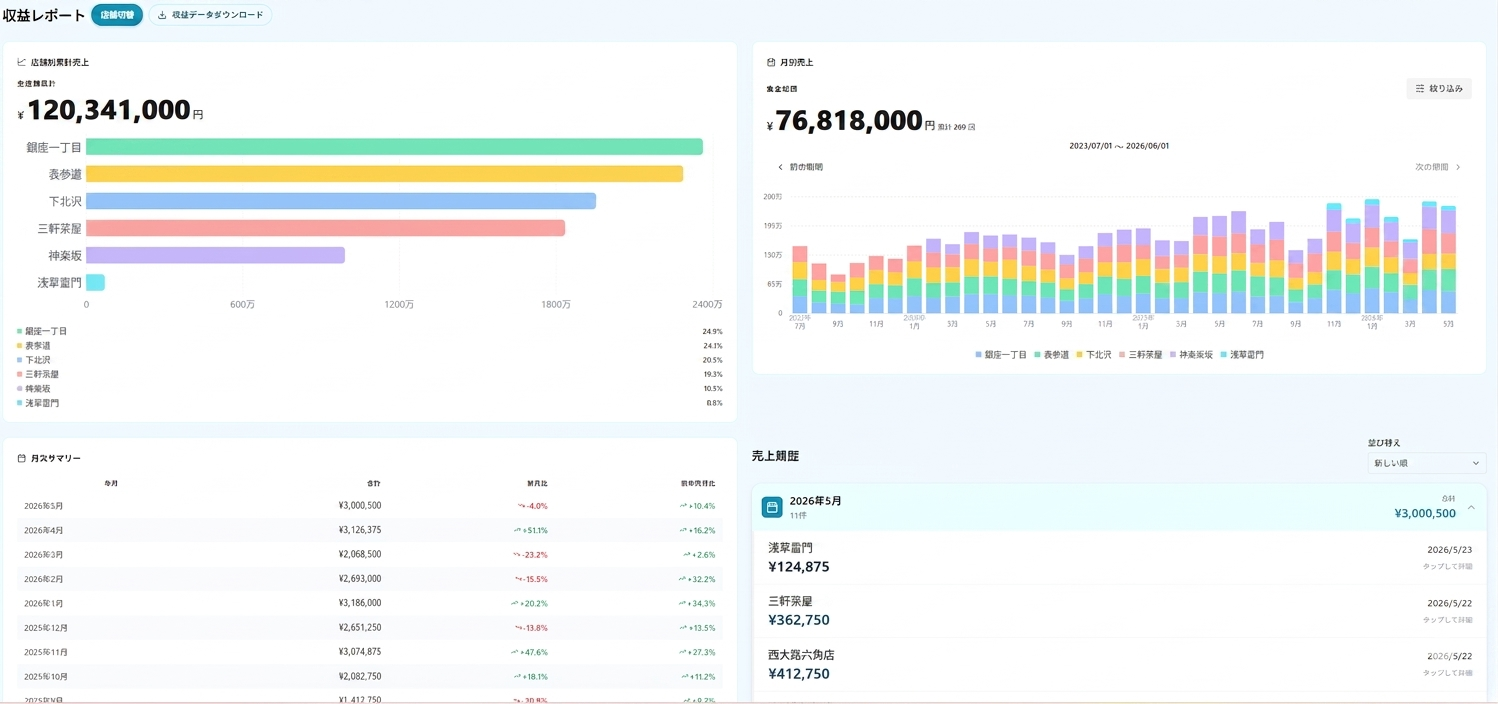
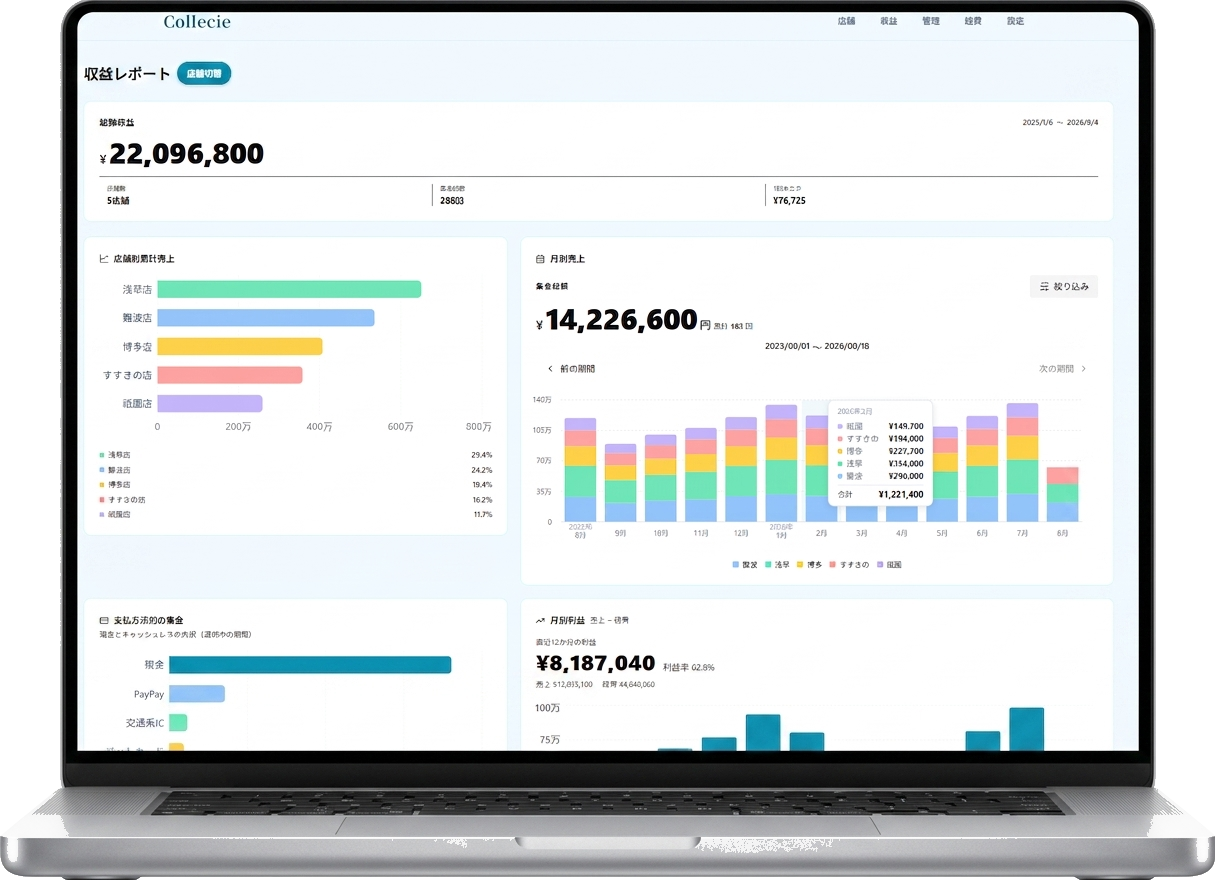
feat(lp): ヒーローと OG を新しい PC ダッシュボードの写真に差し替える
ヒーローの土台がタブの無い旧レポート画面（月次サマリー時代）のままだった。
作り直した PC 版ダッシュボードを撮ったノート PC モックへ差し替える。

- `revenue-report-pc.png` … 背景を透過にしてヒーローへ（1215x880）
- `revenue-report-og.jpg` … 白地のまま OG / Twitter 画像へ

⚠ **OG に透過 PNG を向けないこと。** Slack / X はアルファを黒で塗るので、
   ヒーロー用の透過 PNG をそのまま OG にすると**真っ黒のサムネ**になる。
   同じ絵の白地 JPG を別に置いてある。

⚠ **ヒーロー側は角丸・`overflow:hidden`・`box-shadow` を外した。**
   画像が端末の形をしていて背景が透過しているので、四角い箱をかぶせると
   淡い地の上に白い箱が出る（差し替え前はブラウザ画面の直取りだったので
   箱が要っていた）。影は `drop-shadow` でアルファを辿らせる。

透過は「縁から繋がる白っぽい領域」だけを抜いてある（塗り潰しではなく
外周からの探索）。画面の中の白は残り、接地影は薄いアルファとして残る。

diff --git a/src/app/feacher/home/components/NotLoginUserHome/TopPop.jsx b/src/app/feacher/home/components/NotLoginUserHome/TopPop.jsx
@@ -134,18 +134,21 @@ const TopPop = () => {
             alignSelf={{ base: "center", lg: "auto" }}
             style={{ animation: "fadeSlideUp 0.8s ease both 0.25s" }}
           >
-            {/* PC 収益レポート画面 */}
-            <Box
-              borderRadius="2xl"
-              overflow="hidden"
-              /* ⚠ 影は黒からティールへ。淡い地に黒い影を落とすと汚れて見える */
-              boxShadow="0 24px 64px rgba(14,116,144,0.28)"
-            >
+            {/* PC 収益レポート画面（ノート PC のモック・背景透過） */}
+            {/*
+              ⚠ **角丸・`overflow:hidden`・`box-shadow` を付けないこと。**
+                 画像が端末の形をしていて背景が透過しているので、四角い箱を
+                 かぶせると**淡い地の上に白い箱が出る**（差し替え前は
+                 ブラウザ画面の直取りだったので箱が要った）。
+              ⚠ 影は `drop-shadow`（アルファを辿る）。`box-shadow` だと
+                 透過部分ごと四角い影が落ちる。
+            */}
+            <Box filter="drop-shadow(0 24px 48px rgba(14,116,144,0.30))">
               <Image
                 src="/screenshots/revenue-report-pc.png"
                 alt="Collecie 収益レポート画面"
-                width={1498}
-                height={704}
+                width={1215}
+                height={880}
                 style={{ width: "100%", height: "auto", display: "block" }}
                 priority
               />

diff --git a/src/app/layout.js b/src/app/layout.js
@@ -56,9 +56,15 @@ export const metadata = {
     description: siteDescription,
     images: [
       {
-        url: "/screenshots/revenue-report-pc.png",
-        width: 1200,
-        height: 630,
+        /*
+          ⚠ **OG には透過 PNG を使わないこと。** Slack / X などはアルファを
+             黒で塗り潰すので、ヒーローで使っている `revenue-report-pc.png`
+             （背景透過）をここに向けると**真っ黒のサムネ**になる。
+             白地の JPG を別に置いてある。
+        */
+        url: "/screenshots/revenue-report-og.jpg",
+        width: 1215,
+        height: 880,
         alt: "Collecie - コインランドリー集金アプリ - 無料で始める",
       },
     ],
@@ -67,7 +73,7 @@ export const metadata = {
     card: "summary_large_image",
     title: `${siteName} | コインランドリー集金アプリ - 無料で始める`,
     description: siteDescription,
-    images: ["/screenshots/revenue-report-pc.png"],
+    images: ["/screenshots/revenue-report-og.jpg"],
   },
   alternates: {
     canonical: siteUrl,
